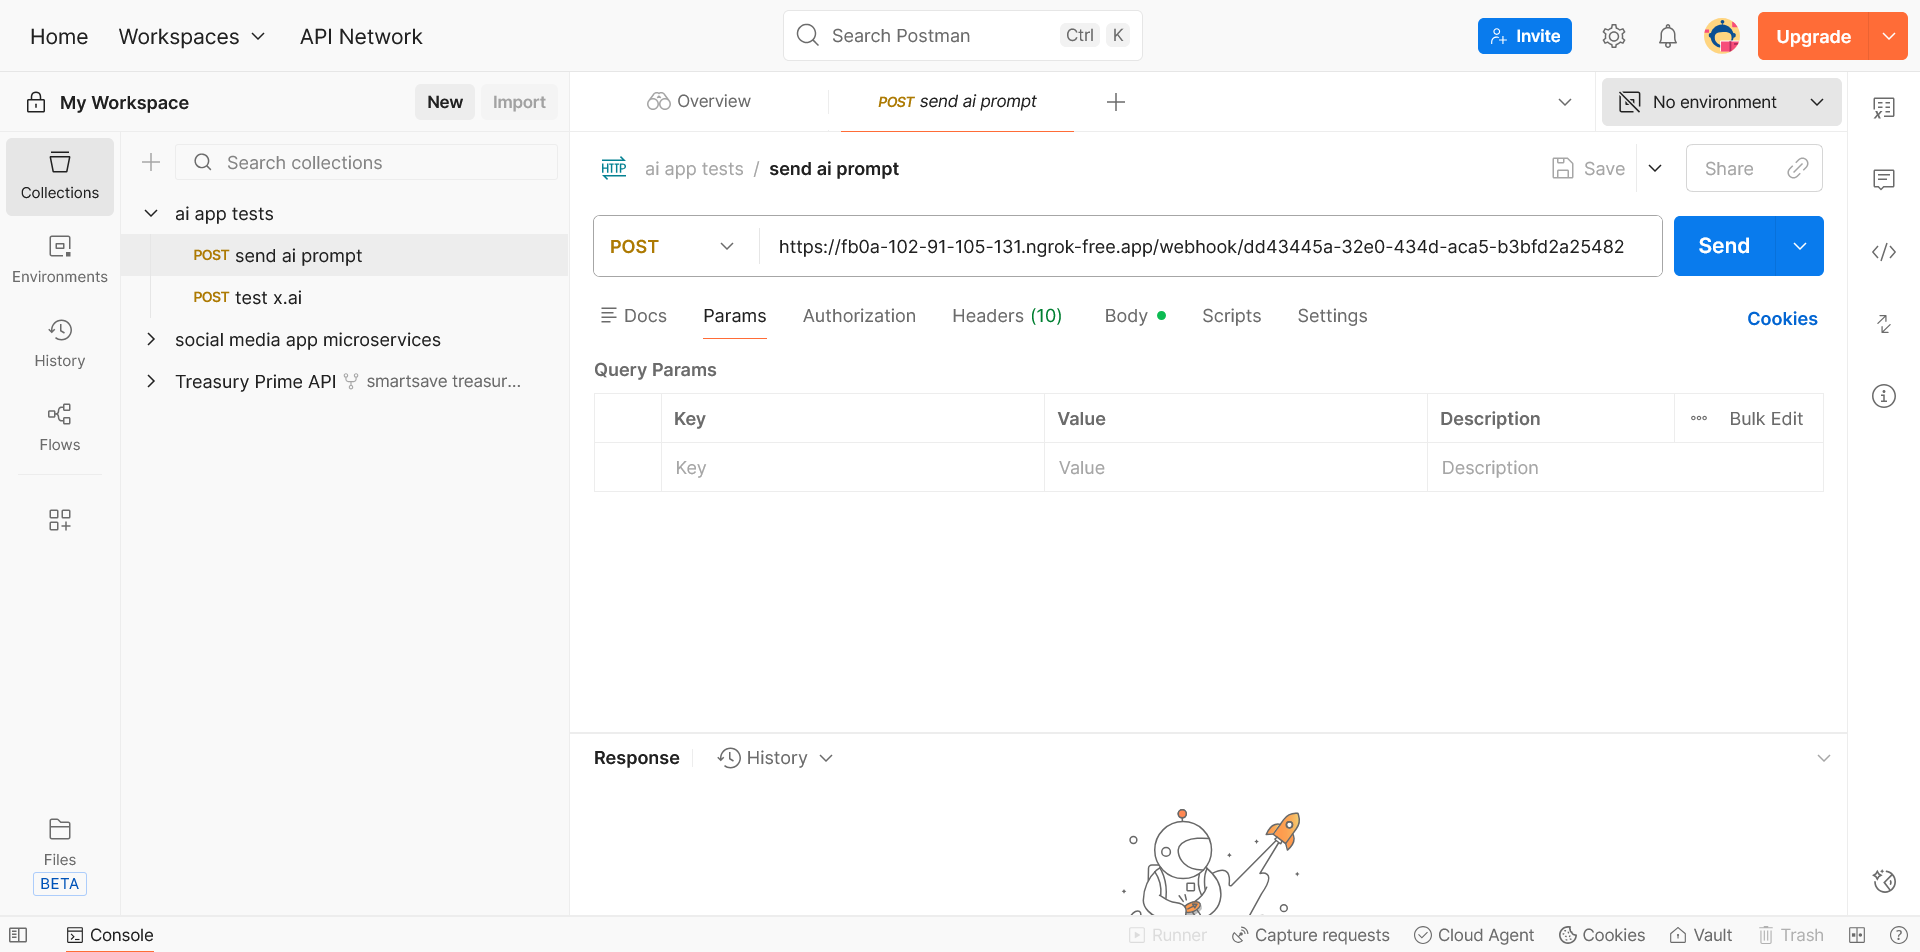
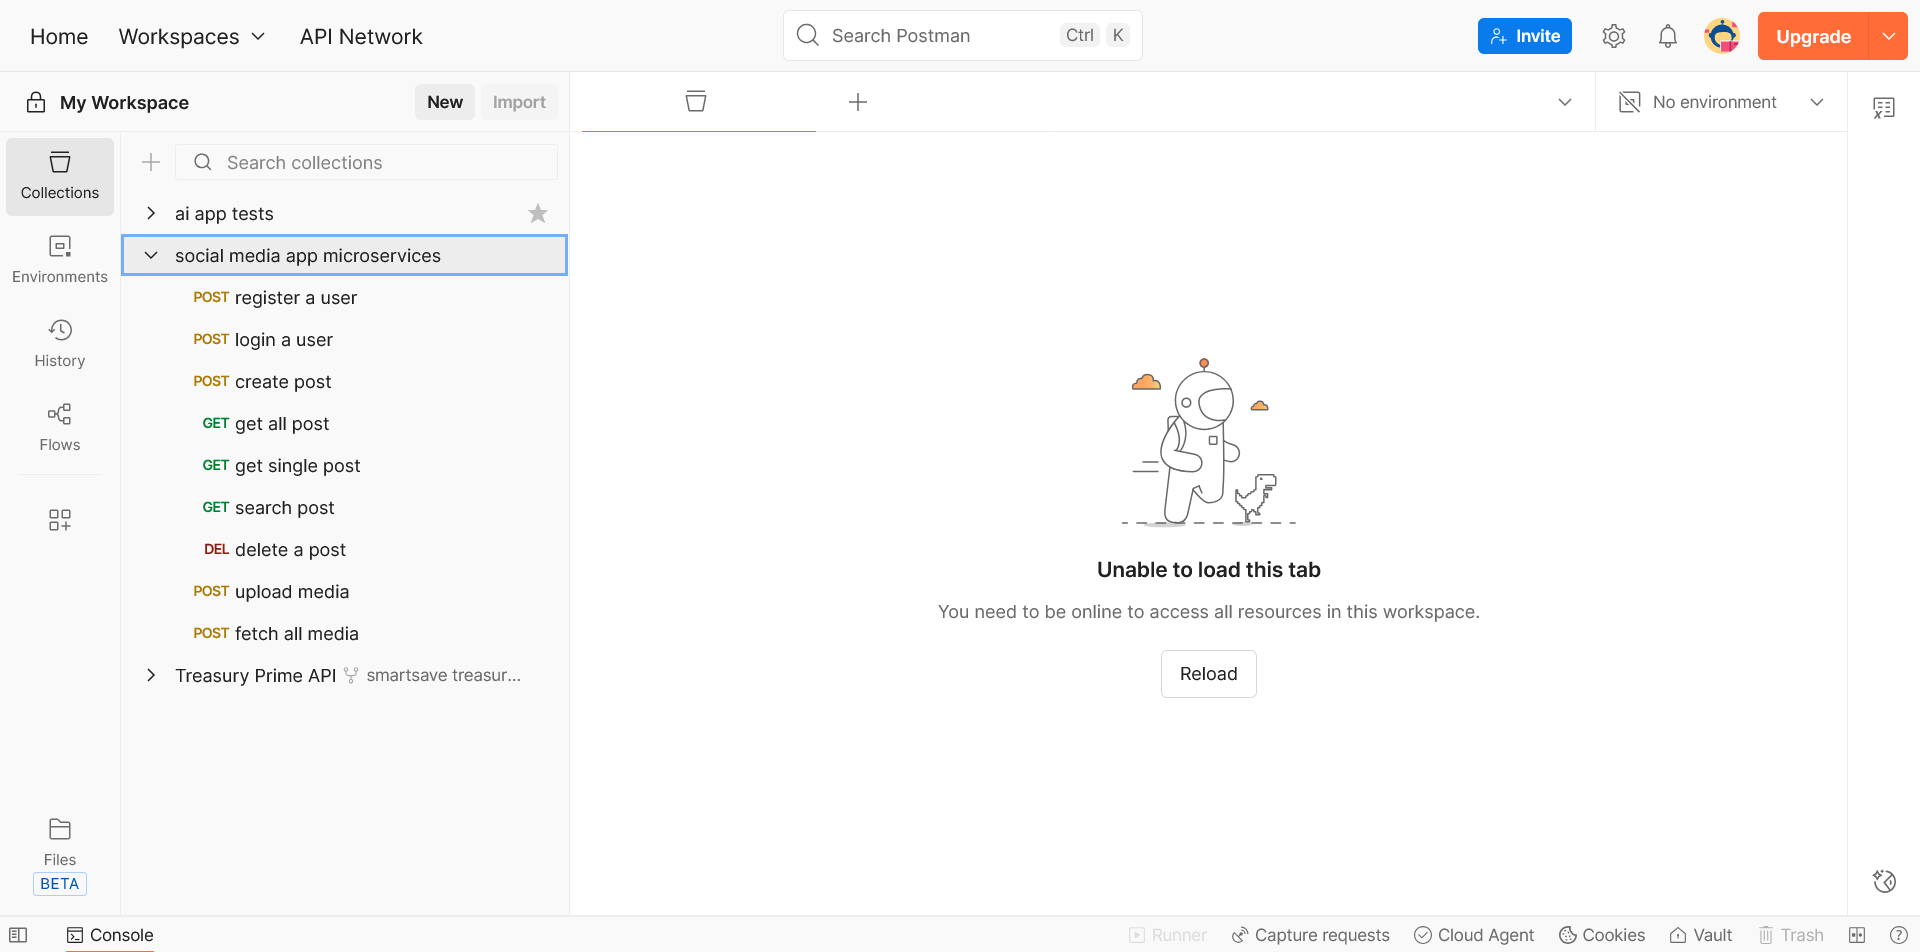
create collection list

diff --git a/client/src/constants/index.ts b/client/src/constants/index.ts
@@ -1,0 +1,150 @@
+import type { CollectionType } from "../../types";
+
+const aiAppTests: CollectionType = {
+  id: "col-ai-app-tests",
+  name: "ai app tests",
+  createdAt: new Date(),
+  updatedAt: new Date(),
+  description: "Sample AI endpoints for testing model and inference APIs",
+  folders: [],
+  variables: [],
+  requests: [
+    {
+      id: "req-generate-text",
+      name: "POST generate text",
+      url: "https://api.example.com/ai/generate-text",
+      method: "POST",
+      headers: {
+        "Content-Type": "application/json",
+      },
+      body: {
+        type: "json",
+        value: { prompt: "hello world" },
+      },
+      params: {},
+    },
+    {
+      id: "req-summarize-text",
+      name: "POST summarize text",
+      url: "https://api.example.com/ai/summarize",
+      method: "POST",
+      headers: {
+        "Content-Type": "application/json",
+      },
+      body: {
+        type: "json",
+        value: { text: "lorem ipsum..." },
+      },
+      params: {},
+    },
+  ],
+  isFavourite: true,
+};
+
+const socialMediaMicroservices: CollectionType = {
+  isFavourite: false,
+  id: "col-social-media-microservices",
+  name: "social media app microservices",
+
+  createdAt: new Date(),
+  updatedAt: new Date(),
+  description: "Microservice endpoints for my social media app",
+  folders: [],
+  variables: [],
+  requests: [
+    {
+      id: "req-register-user",
+      name: "register a user",
+      url: "https://api.example.com/auth/register",
+      method: "POST",
+      headers: {
+        "Content-Type": "application/json",
+      },
+      body: {
+        type: "json",
+        value: {
+          email: "test@example.com",
+          password: "password123",
+        },
+      },
+    },
+    {
+      id: "req-login-user",
+      name: "login a user",
+      url: "https://api.example.com/auth/login",
+      method: "POST",
+      headers: {
+        "Content-Type": "application/json",
+      },
+      body: {
+        type: "json",
+        value: { email: "test@example.com", password: "password123" },
+      },
+    },
+    {
+      id: "req-create-post",
+      name: "create post",
+      url: "https://api.example.com/posts",
+      method: "POST",
+      headers: {
+        "Content-Type": "application/json",
+      },
+      body: {
+        type: "json",
+        value: { caption: "Hello world!", mediaUrl: "" },
+      },
+    },
+    {
+      id: "req-get-all-post",
+      name: "get all post",
+      url: "https://api.example.com/posts",
+      method: "GET",
+      headers: {},
+    },
+    {
+      id: "req-get-single-post",
+      name: "get single post",
+      url: "https://api.example.com/posts/1",
+      method: "GET",
+      headers: {},
+    },
+    {
+      id: "req-search-post",
+      name: "search post",
+      url: "https://api.example.com/posts/search",
+      method: "GET",
+      params: { q: "hello" },
+      headers: {},
+    },
+    {
+      id: "req-delete-post",
+      name: "delete a post",
+      url: "https://api.example.com/posts/1",
+      method: "DELETE",
+      headers: {},
+    },
+    {
+      id: "req-upload-media",
+      name: "upload media",
+      url: "https://api.example.com/media/upload",
+      method: "POST",
+      headers: {},
+      body: {
+        type: "form-data",
+        value: [{ key: "file", value: "", isFile: true }],
+      },
+    },
+    {
+      id: "req-fetch-media",
+      name: "fetch all media",
+      url: "https://api.example.com/media/fetch",
+      method: "POST",
+      headers: {},
+    },
+  ],
+};
+
+export const collections: CollectionType[] = [
+  socialMediaMicroservices,
+  aiAppTests,
+];

diff --git a/client/src/components/home/CollectionItem.tsx b/client/src/components/home/CollectionItem.tsx
@@ -1,0 +1,77 @@
+import { useState, type MouseEvent } from "react";
+import type { CollectionItemProps } from "../../../types";
+import {
+  CaretDownIcon,
+  CaretRightIcon,
+  DotsThreeOutlineIcon,
+  PlusIcon,
+  StarIcon,
+} from "@phosphor-icons/react";
+import Btn from "../global/Btn";
+
+const CollectionItem = ({
+  collection,
+  className,
+  isActive,
+  onClick,
+}: CollectionItemProps) => {
+  const [expanded, setExpanded] = useState(false);
+
+  const handleExpandRetract = (e: MouseEvent) => {
+    console.log(e);
+
+    e.stopPropagation();
+    setExpanded(!expanded);
+
+    // i only have the old value of expanded to work with
+  };
+  return (
+    <button
+      onClick={() => {
+        onClick();
+        setExpanded(true);
+      }}
+      className={
+        className +
+        ` w-full px-3.5 py-0.5 flexbox justify-between text-text-tertiary text-xs  group gborder  ${
+          isActive
+            ? "bg-accent2 border-accent2 "
+            : "hover:bg-accent2-fade hover:border-accent2-fade border-secondary"
+        }`
+      }
+    >
+      {/* static */}
+      <div className="flexbox  gap-3">
+        <button
+          onClick={handleExpandRetract}
+          className="hover:bg-accent2 rounded-sm"
+        >
+          {expanded ? <CaretDownIcon /> : <CaretRightIcon />}
+        </button>
+        <span className=" line-clamp-1 text-start">{collection.name}</span>
+      </div>
+      {/* displays on hover */}
+      <div className=" flexbox gap-3 text-text-tertiary">
+        <Btn
+          className="flexbox justify-center p-1 rounded-sm hover:bg-accent2 text-sm hidden  group-hover:block"
+          icon={<PlusIcon />}
+        />
+
+        <Btn
+          className={`flexbox justify-center p-1 rounded-sm hover:bg-accent2 text-sm ${
+            !collection.isFavourite && " invisible   group-hover:visible"
+          } `}
+          icon={
+            <StarIcon weight={collection.isFavourite ? "fill" : undefined} />
+          }
+        />
+        <Btn
+          className="flexbox justify-center p-1 rounded-sm hover:bg-accent2 text-sm  hidden  group-hover:block"
+          icon={<DotsThreeOutlineIcon />}
+        />
+      </div>
+    </button>
+  );
+};
+
+export default CollectionItem;

diff --git a/client/src/components/global/HomeSidebar.tsx b/client/src/components/global/HomeSidebar.tsx
@@ -12,6 +12,8 @@ import {
 import { useEffect, useRef, useState, type ReactElement } from "react";
 import { Link } from "react-router-dom";
 import SideBarSearchInput from "../home/SideBarSearchInput";
+import { collections } from "../../constants";
+import CollectionItem from "../home/CollectionItem";
 
 const menuItems: {
   name?: string;
@@ -25,7 +27,8 @@ const menuItems: {
 ];
 
 const HomeSidebar = () => {
-  const [panelWidth, setPanelWidth] = useState(290); // width of the right panel
+  const [panelWidth, setPanelWidth] = useState(300); // width of the right panel
+  const [activeCollection, setActiveCollection] = useState(collections[0]);
   const isResizing = useRef(false);
   const startResize = () => {
     isResizing.current = true;
@@ -127,13 +130,32 @@ const HomeSidebar = () => {
             <SideBarSearchInput />
           </div>
           {/* collections list */}
-          <div></div>
+          <div className="py-1">
+            {/* sort based on update at and isFavourite */}
+
+            {collections
+              .sort(
+                (a, b) => a.updatedAt.getSeconds() - b.updatedAt.getSeconds()
+              )
+              .sort((a, b) => Number(b.isFavourite) - Number(a.isFavourite))
+              .map((collection, index) => (
+                <CollectionItem
+                  key={index}
+                  collection={collection}
+                  isActive={collection === activeCollection}
+                  onClick={() => {
+                    if (activeCollection !== collection)
+                      setActiveCollection(collection);
+                  }}
+                />
+              ))}
+          </div>
         </div>
 
         {/* DRAG HANDLE */}
         <div
           onMouseDown={startResize}
-          className="w-3 h-full cursor-e-resize"
+          className="w-0.5 h-full cursor-e-resize hover:bg-dblue"
         ></div>
       </div>
     </aside>

diff --git a/client/src/components/home/SideBarSearchInput.tsx b/client/src/components/home/SideBarSearchInput.tsx
@@ -12,15 +12,6 @@ const SideBarSearchInput = () => {
         placeholder="Search Collections"
         className="text-xs placeholder:text-xs text-text-tertiary flex-1"
       />
-
-      {/* <div className="flex gap-2   ">
-        <div className="p-0.5 text-text-tertiary bg-secondary rounded-sm text-xs">
-          Ctrl
-        </div>
-        <div className="p-0.5 text-text-tertiary bg-secondary rounded-sm text-xs">
-          k
-        </div>
-      </div> */}
     </div>
   );
 };

diff --git a/client/types.ts b/client/types.ts
@@ -34,6 +34,7 @@ export interface CollectionType {
   requests: RequestItem[];
   variables?: EnvVar[];
   auth?: AuthConfig;
+  isFavourite?: boolean;
 }
 
 type Folder = {
@@ -96,3 +97,9 @@ type SavedResponse = {
   };
   savedAt: Date;
 };
+
+export interface CollectionItemProps extends hasClass {
+  collection: CollectionType;
+  isActive: boolean;
+  onClick: () => void;
+}

diff --git a/client/src/index.css b/client/src/index.css
@@ -15,6 +15,7 @@
   --color-yellow: #c6a65c;
   --color-accent: #fe6c37;
   --color-accent-fade: #feaf91;
+  --color-accent2-fade: #ededed;
   --color-accent-dark: #e05320;
   --color-accent2: #e6e6e6;
 }
@@ -39,6 +40,10 @@ input:focus {
 
   section, main, header, footer {
     @apply max-container
+  }
+
+  button {
+    cursor: pointer;
   }
 }
 
